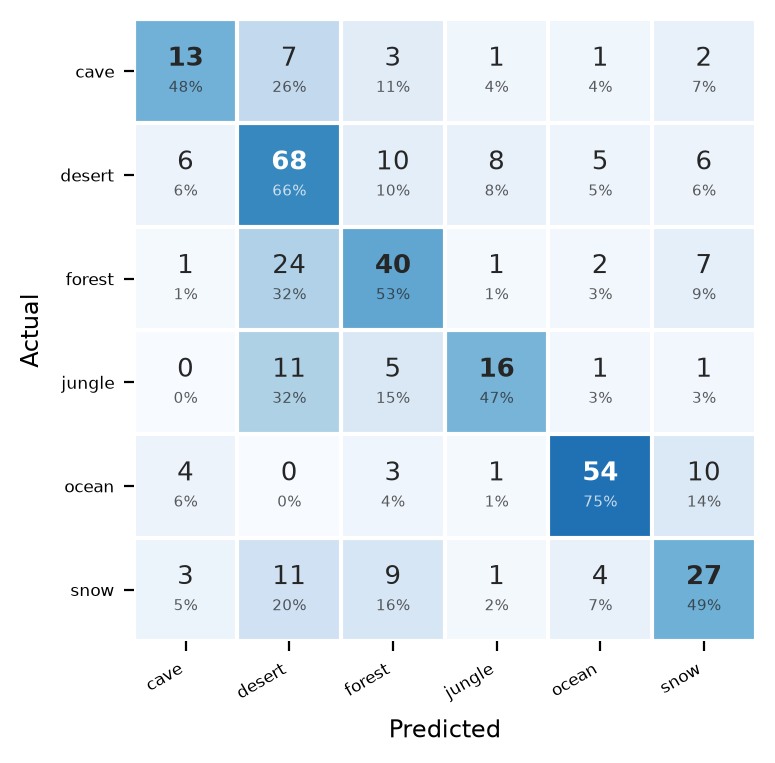
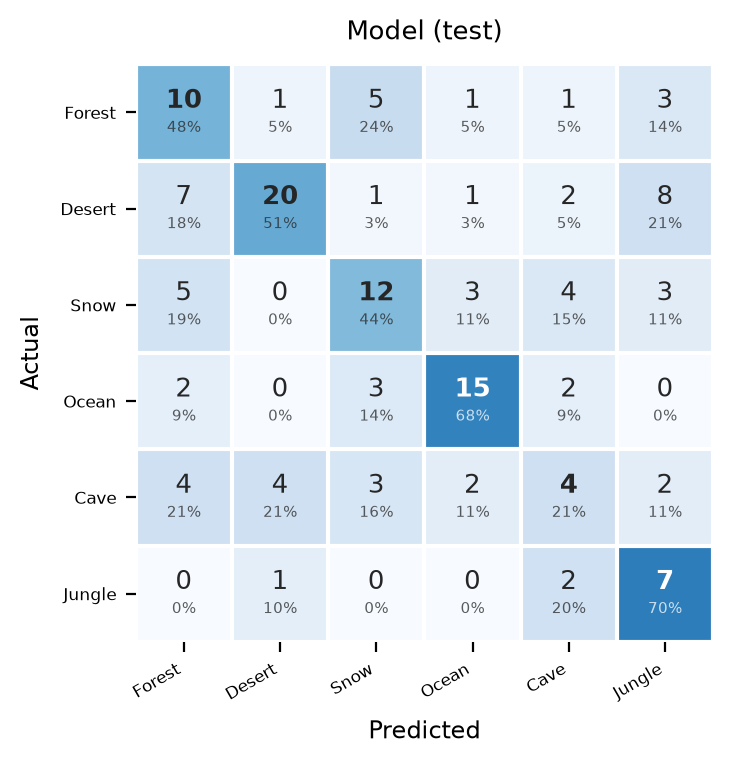
update cm_model.png

diff --git a/content/posts/biome-and-music.md b/content/posts/biome-and-music.md
@@ -309,13 +309,12 @@ We train a small MLP head on top of MERT [[1]](#ref-mert), a pretrained audio em
 
 ### Results
 
-We report the model test and human results below.
+We report the model test and human results below. Surprisingly, our model outperforms human raters, despite it being trained on a modest-sized dataset (# tracks < 500).
 
 | | Accuracy | Weighted F1 |
 |---|:---:|:---:|
-| Model (dev) | 0.596 | 0.595 |
-| Model (test) | 0.511 | 0.507 |
-| Human | [PLACEHOLDER] | [PLACEHOLDER] |
+| Model (test) | 0.493 | 0.500 |
+| Human        | 0.385 | 0.383 |
 
 <div style="display: grid; grid-template-columns: 1fr 1fr; gap: 20px; margin: 24px 0;">
 
@@ -331,14 +330,25 @@ We report the model test and human results below.
 
 </div>
 
+**Observation**
+While the comparison above isn't entirely fair (different set of tracks were used), there are some interesting observations to make.
+
+- Ocean is the easiest to recognize.
+- Cave is hard to recognize--possibly due to lack of data.
+- Desert is easily recognized, but is often confused with Jungle.
+- Forest is the hardest to recognize for humans (lowest recall).
 
 
 ### Discussion
-[TODO: comment onmodel vs human performance]
 
-Each biome likely has standard musical conventions: desert tracks might share a tempo/rhythm range distinct from forest tracks, certain keys or instrumentation recur within a class, and so on. Call these **cues** — boring, standard descriptors (tempo, rhythm, key, spectral shape) rather than anything resembling "atmosphere." Under this hypothesis, the model isn't recovering the same holistic scene the listener imagines; it's just exploiting these cues, and happens to land at human-level F1 by doing so.
+While the results are understandable, this task requires understanding music *atmosphere*; a simple model trained on small data outperforming humans thus raises the question:
 
-To test this, we train a **cue-based classifier** — the same MLP head, but on standard hand-crafted descriptors (tempo, rhythm, key, spectral/timbral features) instead of MERT embeddings — and compare.
+> Is the model cheating by learning uninteresting, statistical descriptors of each biome?
+
+For example, most Desert tracks could share the same key, rhythm, spectral shape, instruments, and so on (call these **cues**--standard music descipors). The model could be 'cheating' by learning these instead of the *atmosphere*.
+
+
+To test this, we train a **cue-based classifier** — the same MLP head 
 
 ```yaml
 cue_model_f1: [PLACEHOLDER]
@@ -346,7 +356,7 @@ mert_model_f1: [PLACEHOLDER]  # from Results
 human_f1: [PLACEHOLDER]       # from Results
 ```
 
-[PLACEHOLDER: interpretation — does cue-based model close the gap to MERT/human, or does a gap remain? What does that imply about whether MERT is capturing something beyond boring cues?]
+
 
 
 ###  References
